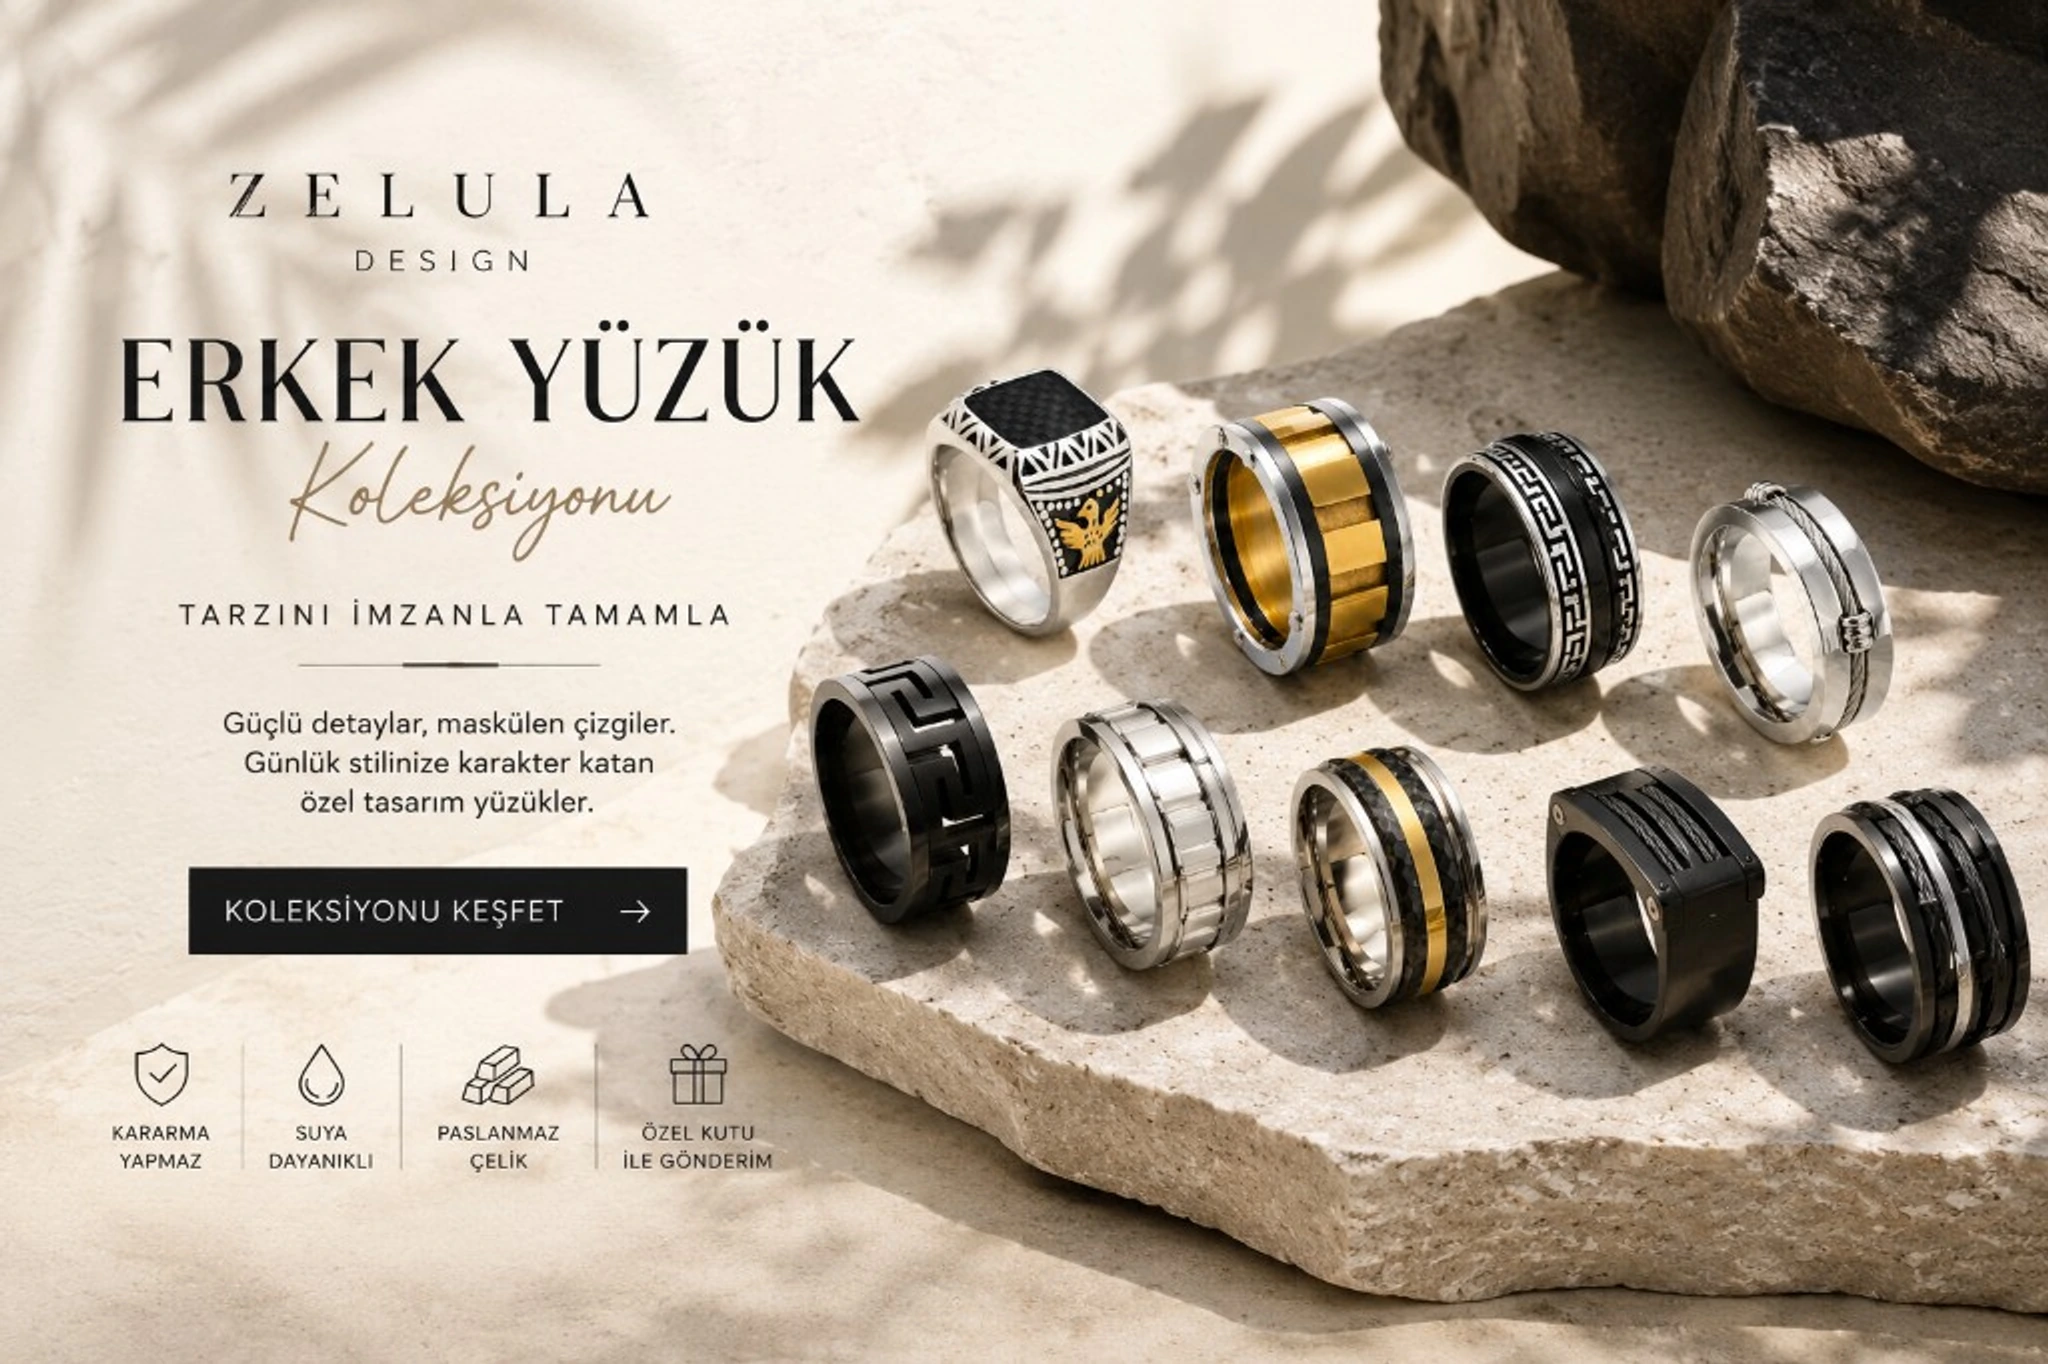
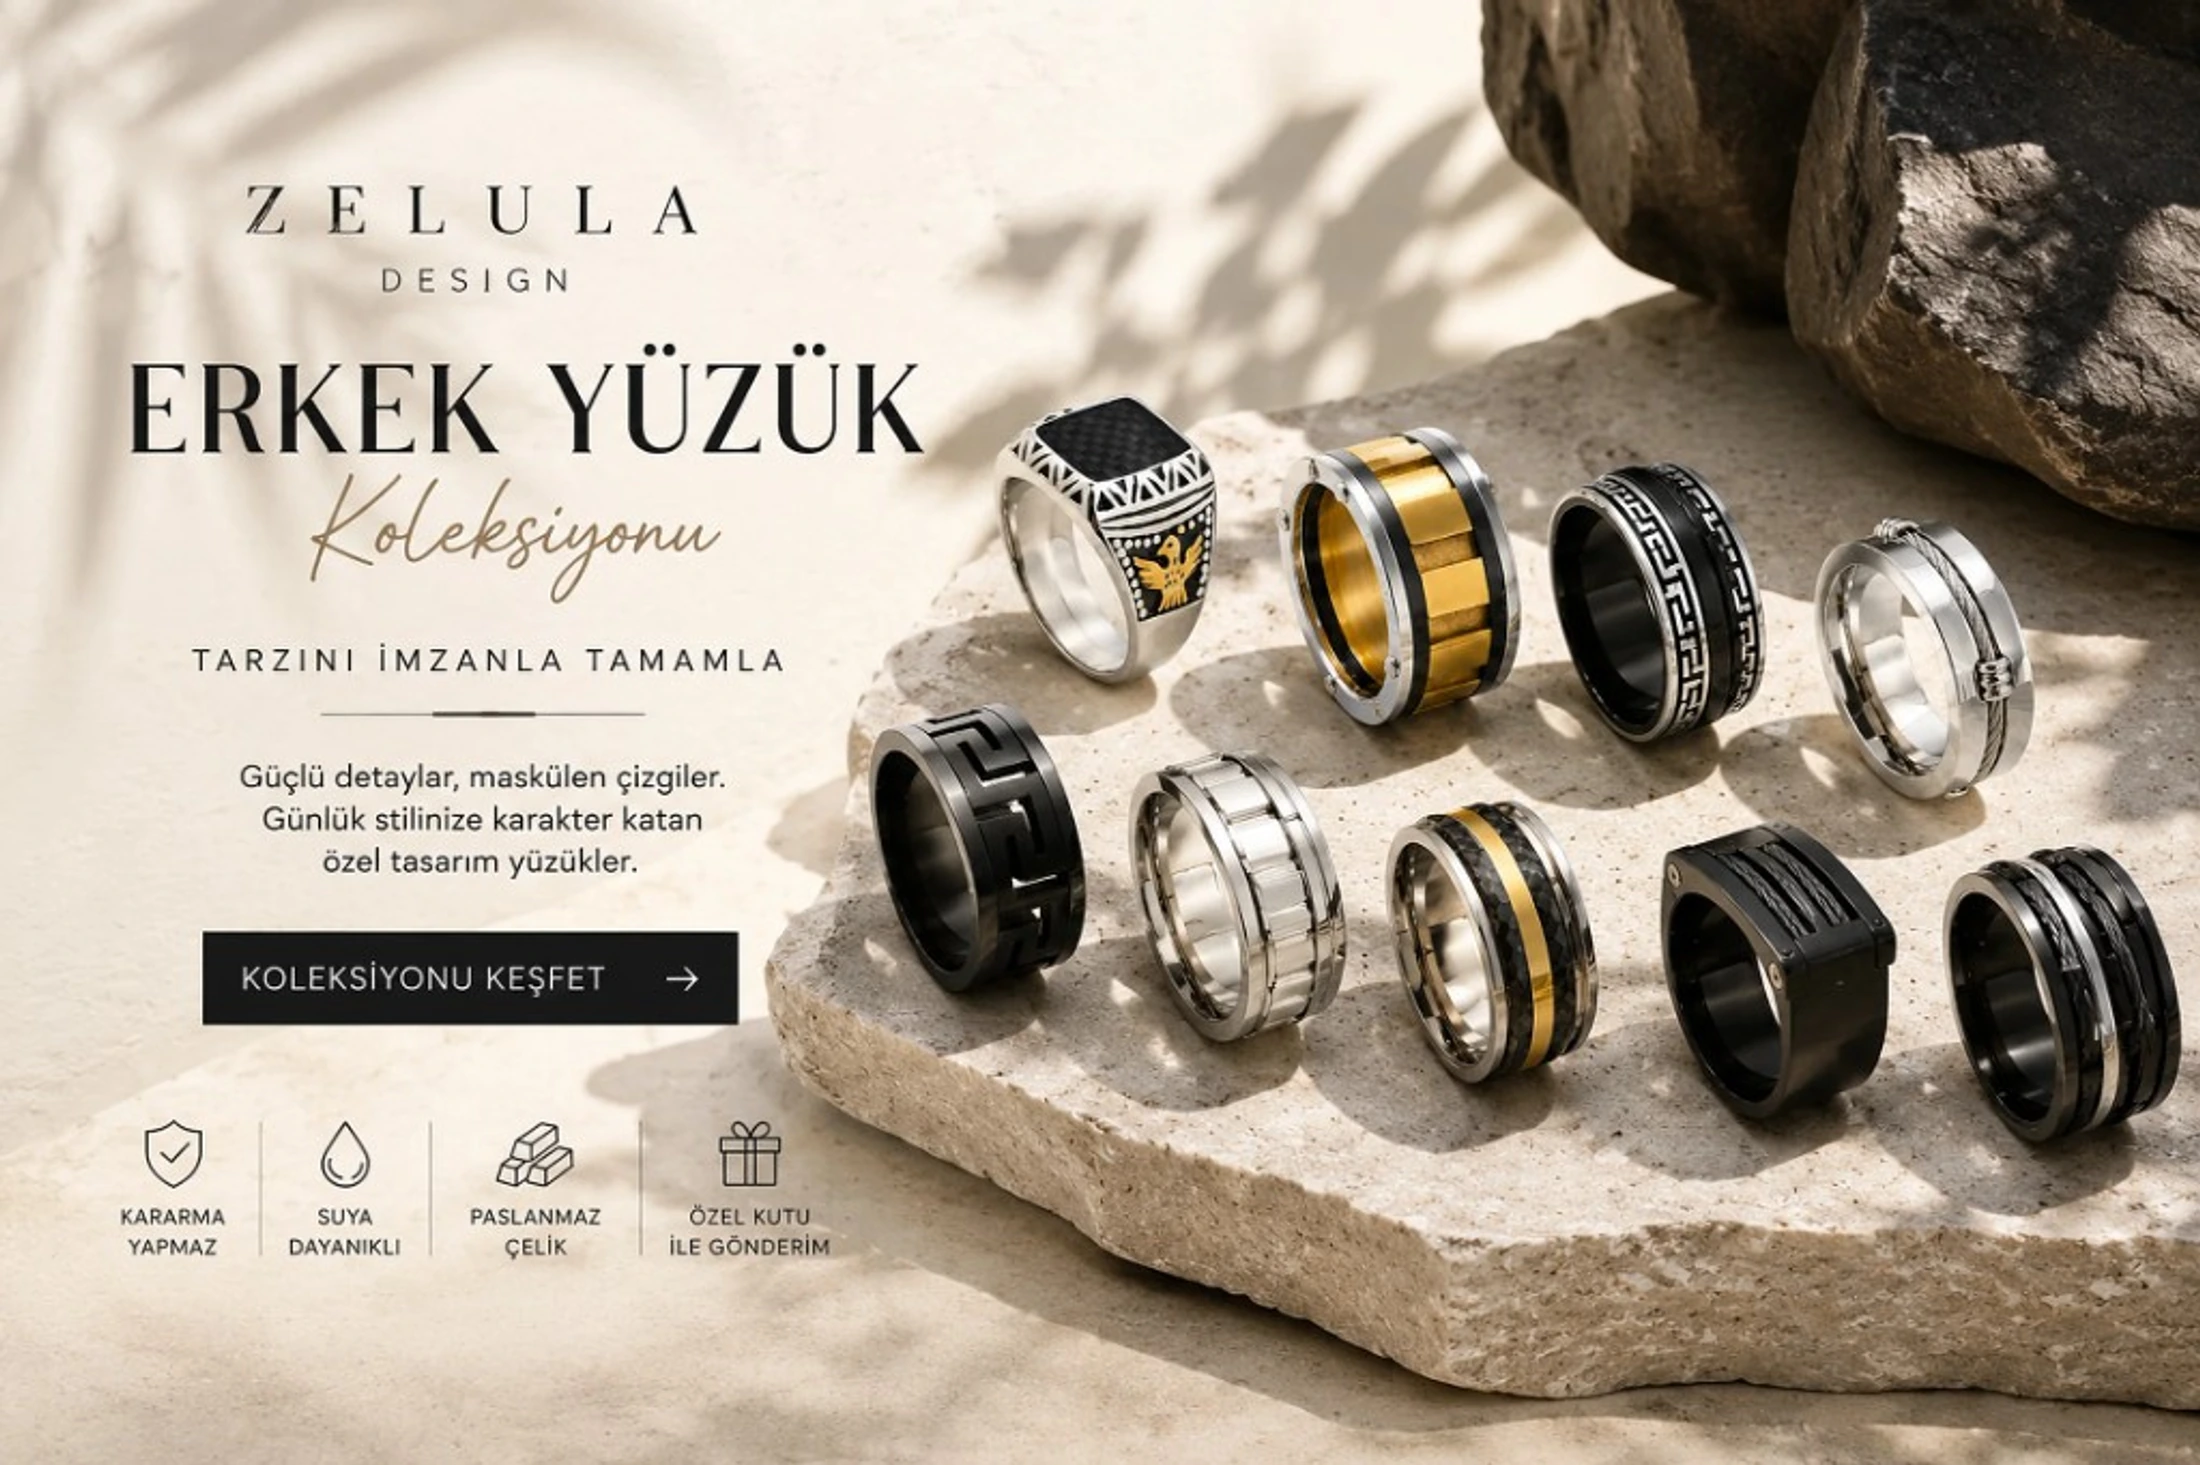
Erkek yuzuk hero bannerini yeni tasarimla guncelle.
Yuksek cozunurluklu gorsel 2200px webp olarak carousel'e alindi.

diff --git a/src/app/page.tsx b/src/app/page.tsx
@@ -41,8 +41,8 @@ const HERO_BANNER_DEFS: HeroBannerDef[] = [
   {
     id: "erkek-yuzuk",
     imageSrc: "/hero-banner-erkek-yuzuk.webp",
-    width: 2048,
-    height: 1364,
+    width: 2200,
+    height: 1465,
     alt: "Zelula — Erkek Yüzük Koleksiyonu; paslanmaz çelik maskülen yüzükler",
     href: "/erkek/yuzuk",
     objectPosition: "left center",
